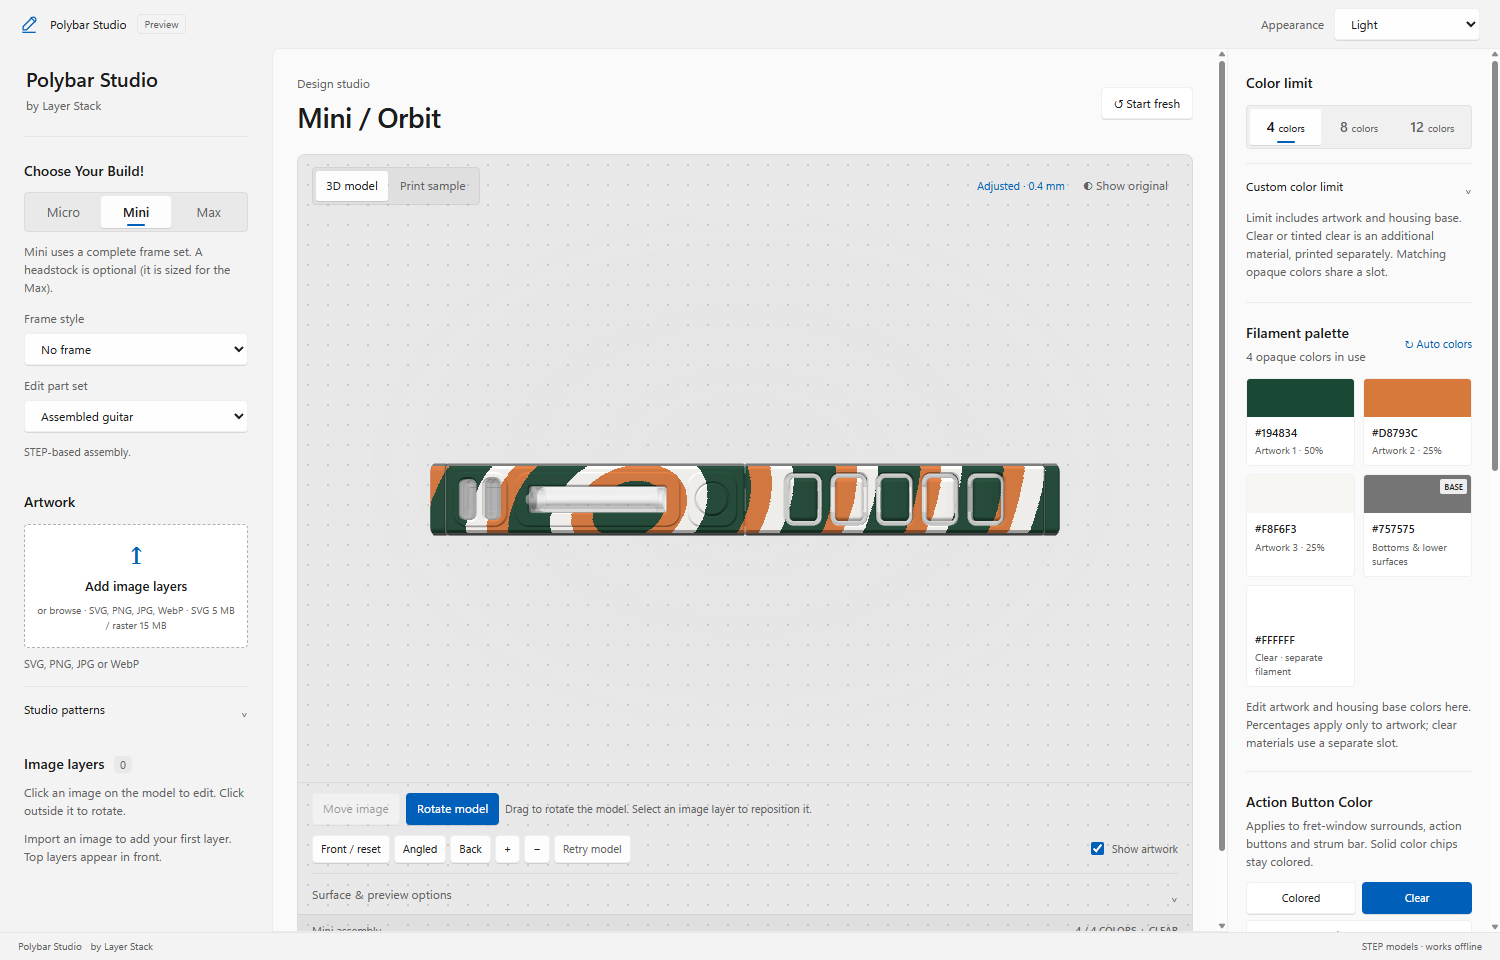
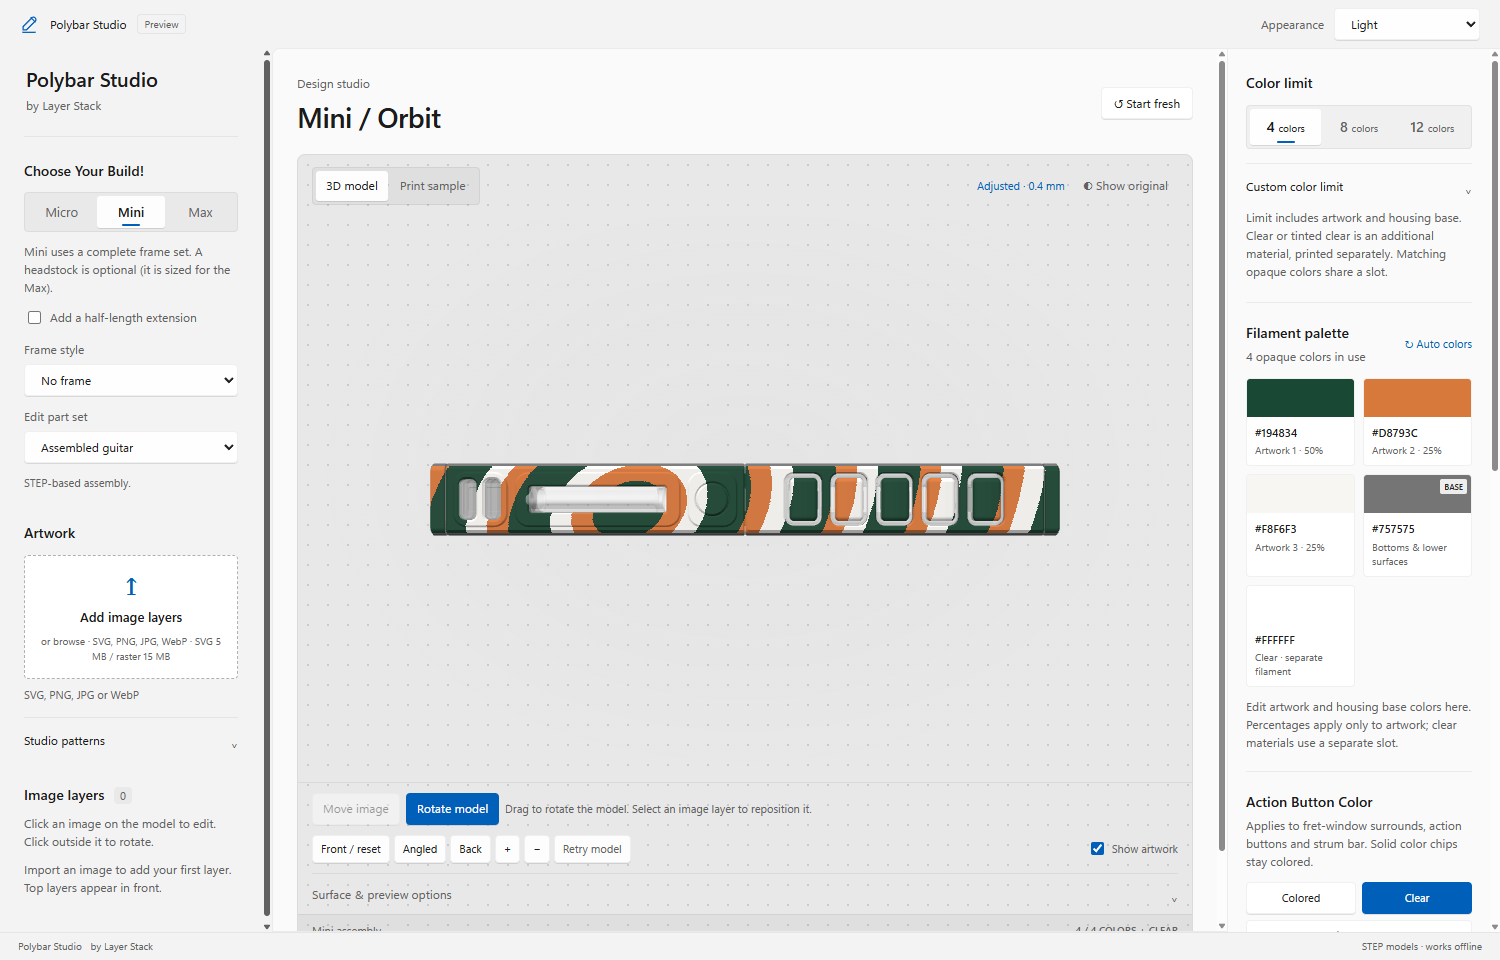
0.3.2: half-length extension in the guide; new screenshots

Changed region(s): [[0.0, 0.0625, 0.184, 0.9375], [0.0, 0.3125, 0.1227, 0.5625], [0.0307, 0.2188, 0.092, 0.25]]

diff --git a/README.md b/README.md
@@ -2,7 +2,7 @@
 
 Paint your Polybar Micro, Mini or Max, then get a print-ready Bambu Studio project for your Bambu Lab printer.
 
-[![Download for Windows](https://img.shields.io/badge/Download_for_Windows-Polybar_Studio_0.3.1-0078D4?style=for-the-badge&logo=windows)](https://github.com/3D-Printed-Controller-Systems/Polybar-Studio-Release/releases/latest/download/Polybar-Studio-Windows.exe)
+[![Download for Windows](https://img.shields.io/badge/Download_for_Windows-Polybar_Studio_0.3.2-0078D4?style=for-the-badge&logo=windows)](https://github.com/3D-Printed-Controller-Systems/Polybar-Studio-Release/releases/latest/download/Polybar-Studio-Windows.exe)
 
 Windows 10 or 11, 64-bit · about 50 MB · works offline · [all releases](https://github.com/3D-Printed-Controller-Systems/Polybar-Studio-Release/releases)
 
@@ -30,6 +30,7 @@ The window has three columns: your **build and artwork** on the left, the **3D p
 Under **Choose Your Build!**, pick **Micro**, **Mini** or **Max**.
 
 - **Micro** has no frame.
+- **Add a half-length extension** makes any Mini or Max longer by 85 mm (on a Max it goes after the full extension). It works with every frame.
 - **Mini** and **Max** have a **Frame style** list (Airbourne, Diablo, Maverick, Nomad, Offset, Pioneer, Renegade, Vampire, Wizard; Max also has the older Enforcer). Choose **No frame** for the bare controller.
 - **Max** frames come with their matching headstock. On a **Mini** with a frame, tick **Add the matching Max headstock** if you want one (it's sized for the Max, so it's off by default).
 - **Edit part set** switches the preview between the assembled guitar, the frame only, and (Max) the headstock.
@@ -110,6 +111,8 @@ In the slicer, pick your actual filament profiles, check that each color goes to
 ## Releases
 
 Each release lists the installer's SHA-256 and the [Development](https://github.com/3D-Printed-Controller-Systems/Polybar-Studio-Development) commit it was built from.
+
+**0.3.2**: exports for dual-nozzle printers (H2D, H2D Pro, H2C, X2D) now slice (0.3.1's failed); half-length extension for any Mini or Max.
 
 **0.3.1**: exports open and slice in Bambu Studio (0.3.0's crashed it); choose any Bambu Lab printer; named, arranged plates like the team's own projects; clear stop plates; color dot to recolor one-color images; optional Max headstock on a Mini; the 3D model now follows palette color changes.
 
